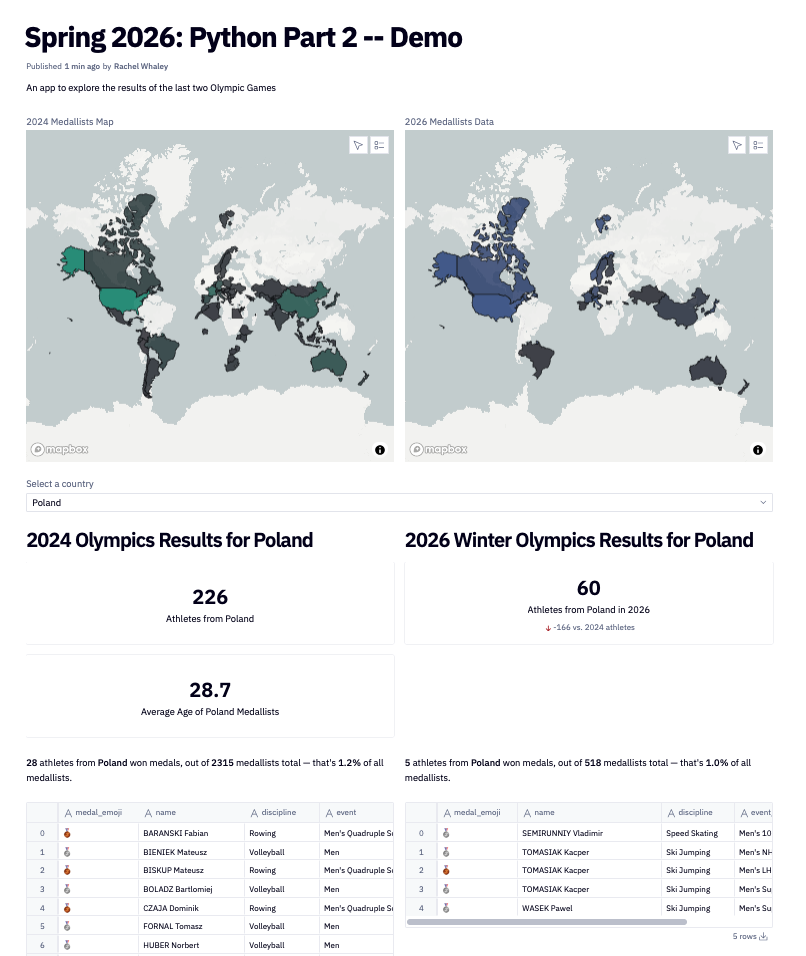
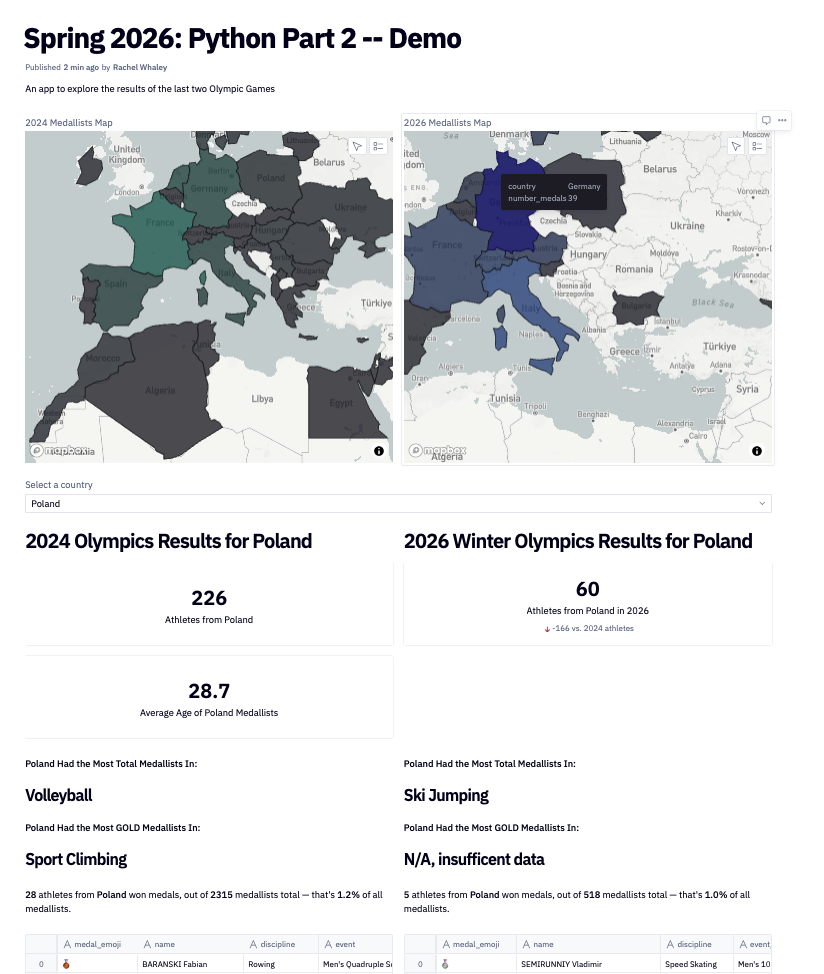
update data app

diff --git a/content/docs/python-part2.md b/content/docs/python-part2.md
@@ -4,7 +4,7 @@ title: "Data App with Python Part 2"
 description: "Learn how to manipulate data, use functions, and create a basic web app."
 icon: "article"
 date: "2026-02-21T16:30:12-07:00"
-lastmod: "2026-02-21T10:30:12-07:00"
+lastmod: "2026-02-22T10:30:12-07:00"
 draft: false 
 toc: true
 ---
@@ -126,20 +126,21 @@ Notice that our `athletes_2026` dataframe has a column for country_code, but not
 
 ## Create a side-by-side comparison
 
+Duplicate your Markdown cell with the "2024 Olympics Results" header, change it to 2026, and add it to your app. Drag it next to the existing header, so that we can create a side-by-side comparison view. 
+
 ### Single-value comparison
-1. Duplicate your Markdown cell with the "2024 Olympics Results" header, change it to 2026, and add it to your app. Drag it next to the existing header, so that we can create a side-by-side comparison view. 
-2. Find the number of medallists from the 2026 Olympics from the selected country. To do this:
+1. Find the number of medallists from the 2026 Olympics from the selected country. To do this:
     1. Copy the code we used to find this value from the 2024 Olympics into a new python cell 
     2. Update the variable name to include `_2026` so that you don't overwrite your existing variable 
     3. Update the dataframe used to pull the value to the dataframe we created in the last section, `athletes_2026_with_country`
-3. Create a single-value cell that displays the variable you just created
+2. Create a single-value cell that displays the variable you just created
     * Title = `Athletes from {{selected_country}} in 2026`
     * Show Comparison = On
     * Type = Absolute Change
     * Format = Positive / Negative 
     * Value = `country_athlete_count` (the # of athletes from 2024)
     * Label = `vs. 2024 athletes` 
-4. Add this cell to your app view, then toggle to the App Builder view at the top of your screen and test out whether it changes when you toggle the dropdown! 
+3. Add this cell to your app view, then toggle to the App Builder view at the top of your screen and test out whether it changes when you toggle the dropdown! 
 
 We unfortunately can't add the average age stat for the 2026 Olympics, since athlete birthdate wasn't included in our dataset. If you find a dataset that does contain that info, you can upload it to the Files section as we did above and follow this same workflow to add this in.
 
@@ -153,6 +154,8 @@ We can, however, add summary stats for our 2026 side-by-side comparison:
 3. Edit the new Markdown cell to refer to your new variable names
     * Remember that the Markdown cell needs to come *after* the variables it's referring to. You can shift a cell down or up by clicking the `...` on the right
 4. Add this cell to your app view, then toggle to the App Builder view at the top of your screen and test out whether it changes when you toggle the dropdown! 
+
+Use this same workflow to update the "[country] had the most medallists in [sport]" component that we created earlier: copy the code, update the dataframe and variable names, and set a copy of the Markdown to refer to those new variables. 
 
 ### Dynamic list comparison
 Finally, we'll add the athlete details view in for our 2026 side-by-side:

diff --git a/content/docs/excel-part1.md b/content/docs/excel-part1.md
@@ -4,7 +4,7 @@ title: "Excel Part 1: Formulas"
 description: "Get started with Excel in no time!"
 icon: "article"
 date: "2025-09-06T16:30:12-07:00"
-lastmod: "2026-02-09T10:30:12-07:00"
+lastmod: "2026-02-22T10:30:12-07:00"
 draft: false 
 toc: true
 ---
